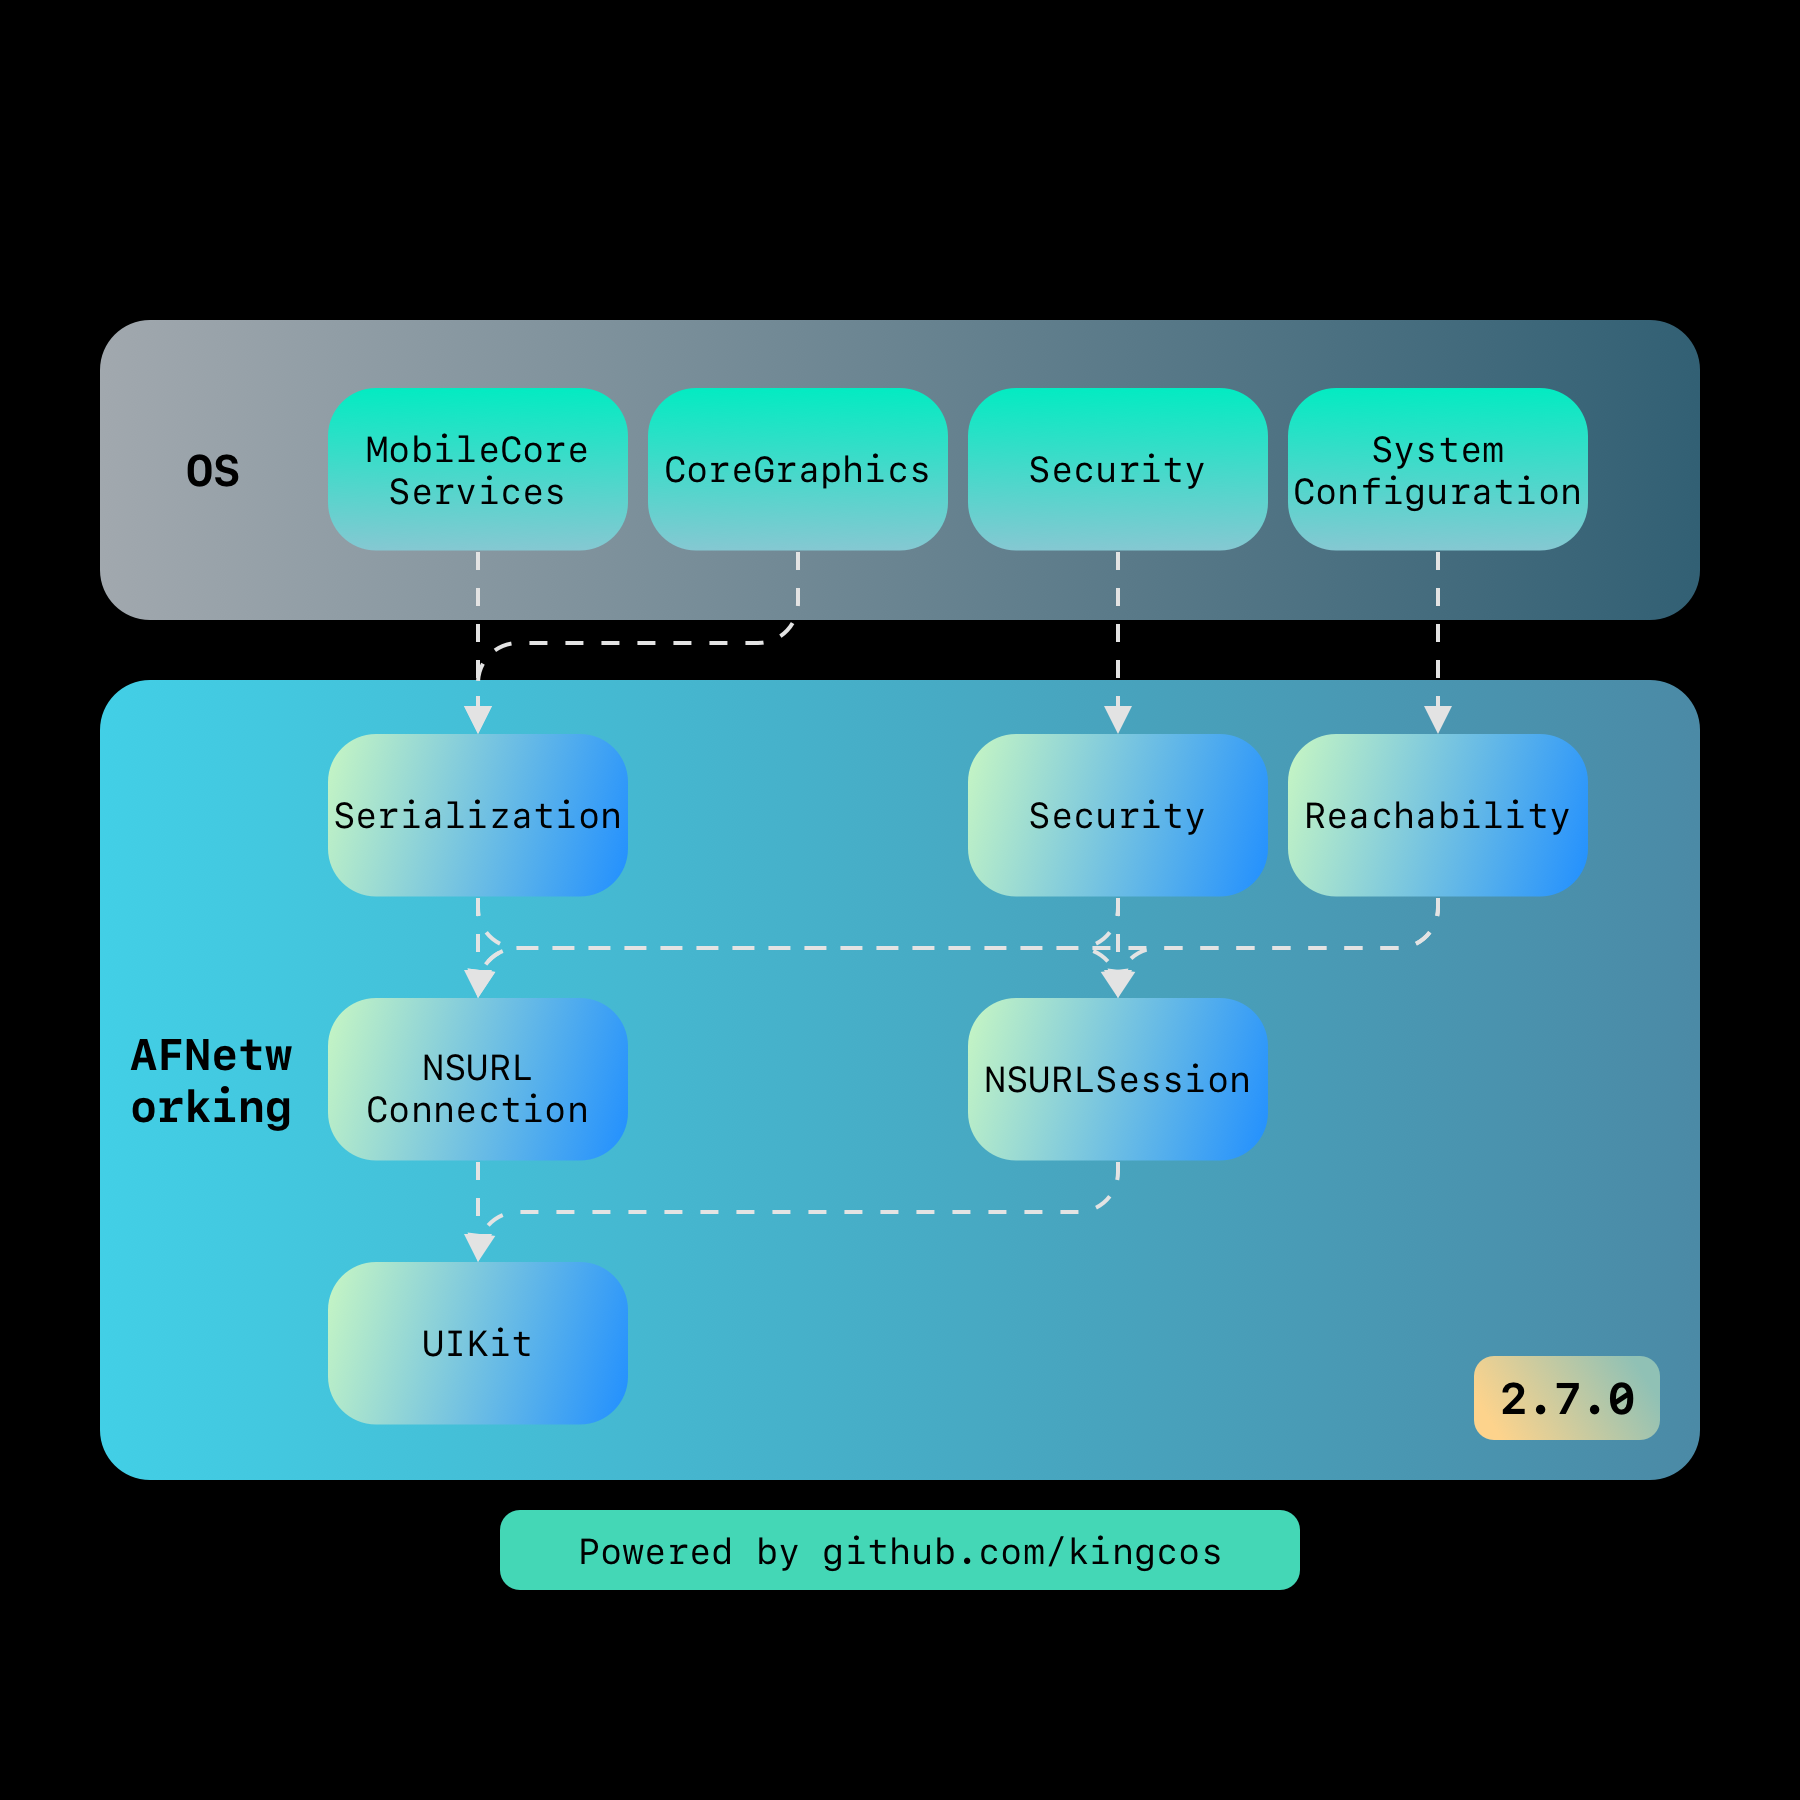
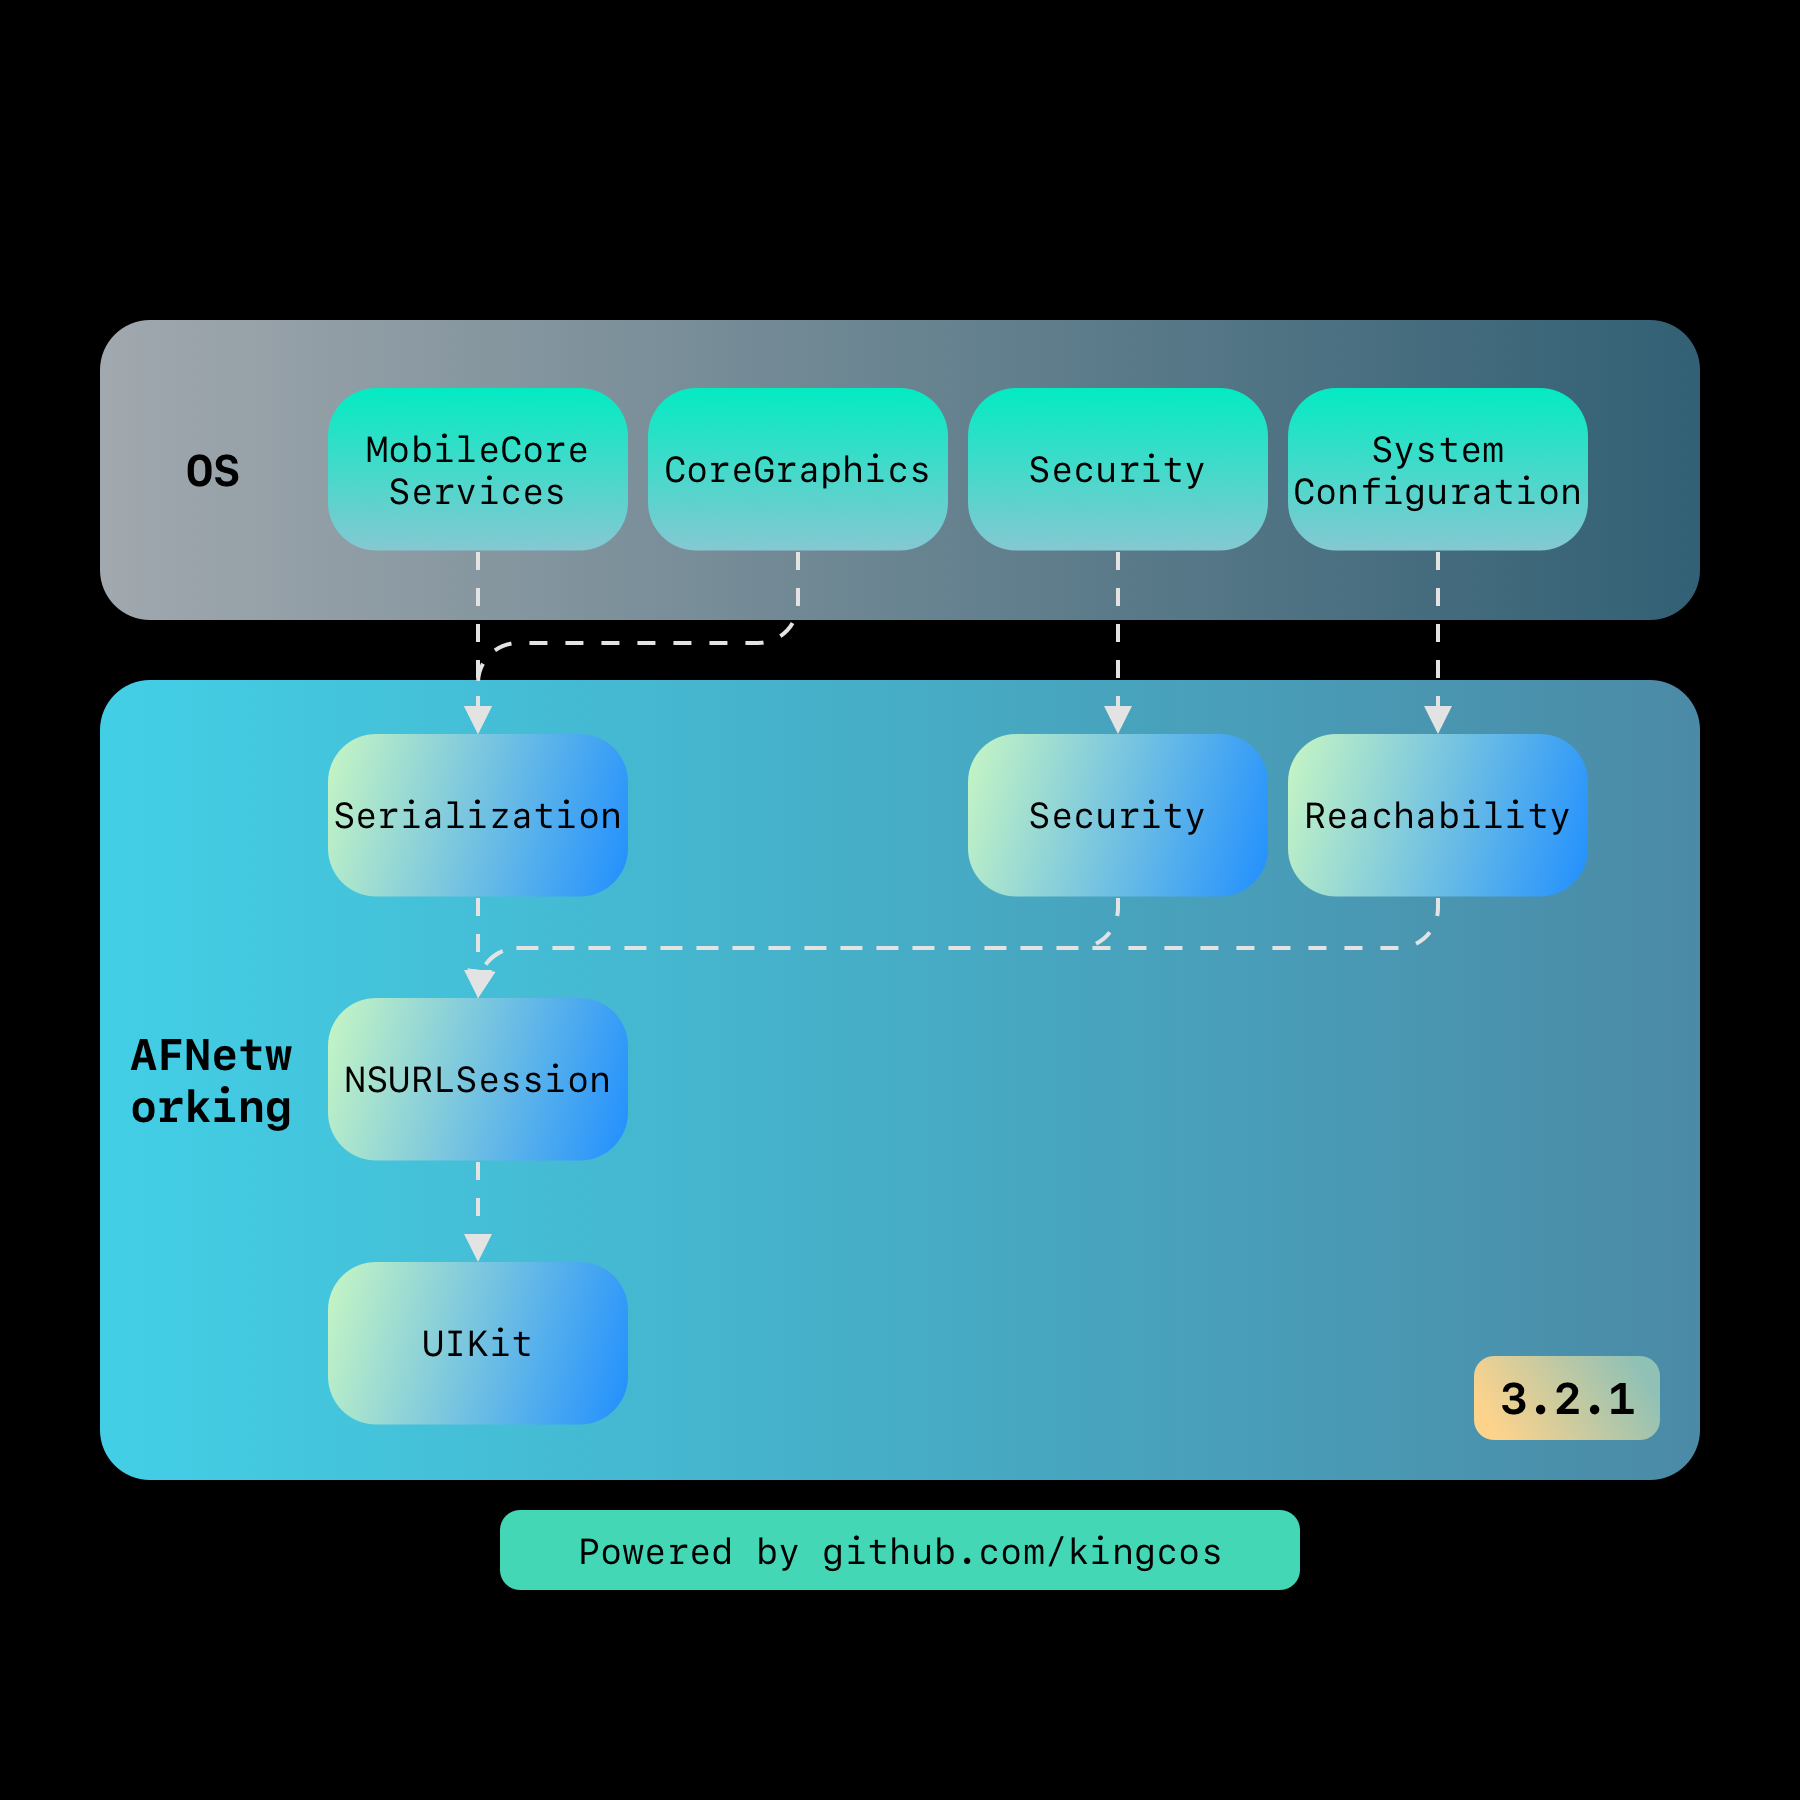
Update to 3.2.1

Changed region(s): [[0.5289, 0.5289, 0.7156, 0.6533], [0.1867, 0.5911, 0.3422, 0.6222]]

diff --git a/Posts/Focus/AFNetworking/README.md b/Posts/Focus/AFNetworking/README.md
@@ -2,23 +2,20 @@
 
 | Date | Notes | Source Code |
 |:-----:|:-----:|:-----:|
-| 2019-03-03 | 首次提交 | [AFNetworking 2.7.0](https://github.com/AFNetworking/AFNetworking/releases/tag/2.7.0) |
+| 2019-03-03 | 首次提交 | [AFNetworking 3.2.1](https://github.com/AFNetworking/AFNetworking/releases/tag/3.2.1) |
 
-> 许久未更！这次我将以 AFNetworking 最新 Release 版本 2.7.0 为例，作为深度剖析的第一个开源库。之后我也将阅读 3.2.1 版本，尝试去对比更新的地方。当然我也计划后续剖析 Alamofire，即 Swift 的网络库。第一次做剖析开源库的文章，不免会有所纰漏，但我会尽力将文章做到翔实。涉及到部分语法特性，可能会将其作为单独的内容提炼出去。其实网上已经有不少对 AFNetworking 剖析的文章，在本文基本完成后，我会参考前人之所见，查漏补缺。所有参考的资料都将在文末「Reference」中找到。那下面就开始吧！
+> 许久未更！这次我将以 AFNetworking 最新 Release 版本 3.2.1 为例，作为深度剖析的第一个开源库。当然我也计划后续剖析 Alamofire，即 Swift 的网络库。第一次做剖析开源库的文章，不免会有所纰漏，但我会尽力将文章做到翔实。涉及到部分语法特性，可能会将其作为单独的内容提炼出去。其实网上已经有不少对 AFNetworking 剖析的文章，在本文基本完成后，我会参考前人之所见，查漏补缺。所有参考的资料都将在文末「Reference」中找到。那下面就开始吧！
 
 ![](afnetworking-logo.png)
 
 ## 总体概览
 
-但凡接触过 iOS 开发，用过 Obj-C 的同学应该对 AFNetworking 这个名字不陌生。AFNetworking 是由 Objective-C 编写的适用于 iOS/macOS/watchOS/tvOS 全平台的网络库。根据开源在 GitHub 上最新的 2.x 版本 Tag，下载到的源代码压缩包解压后共计 146 个文件，查看 Podspec 文件我们可以得知其中 AFNetworking 文件夹下的文件才真正属于库的源代码本身，总共只有 19 个文件。文件结构如下：
+但凡接触过 Obj-C iOS 开发的老同学都应该对 AFNetworking 这个名字不陌生。AFNetworking 是由 Objective-C 编写的适用于 iOS/macOS/watchOS/tvOS 全平台的网络库。根据其开源在 GitHub 上最新的 3.2.1 版本 Tag，可以直接下载到该版本的源代码。AFNetworking 支持 CocoaPods 集成，所以只需要查看 Podspec 文件就可以得知真正的库文件，总共只有 14 个文件。文件结构如下：
 
 ```
 ➜  AFNetworking tree
 .
-├── AFHTTPRequestOperation.h
-├── AFHTTPRequestOperation.m
-├── AFHTTPRequestOperationManager.h
-├── AFHTTPRequestOperationManager.m
+├── AFCompatibilityMacros.h
 ├── AFHTTPSessionManager.h
 ├── AFHTTPSessionManager.m
 ├── AFNetworkReachabilityManager.h
@@ -26,8 +23,6 @@
 ├── AFNetworking.h
 ├── AFSecurityPolicy.h
 ├── AFSecurityPolicy.m
-├── AFURLConnectionOperation.h
-├── AFURLConnectionOperation.m
 ├── AFURLRequestSerialization.h
 ├── AFURLRequestSerialization.m
 ├── AFURLResponseSerialization.h
@@ -35,24 +30,19 @@
 ├── AFURLSessionManager.h
 └── AFURLSessionManager.m
 
-0 directories, 19 files
+0 directories, 14 files
 ```
 
-因为 AFNetworking 通常使用 CocoaPods 集成进我们的 Project。所以根据 Podspec 可以较为容易地了解整体的架构和分层，根据其中的定义，AFNetworking 整体被分为 Serialization、Security、Reachability、NSURLConnection、NSURLSession、UIKit 六个层级（Subspec），AFNetworking 本身只有 AFNetworking.h 一个源文件，作为对外暴露头文件的管理。
+Podspec 不仅指定了源文件的路径，也可以较为容易地了解整体的架构和分层，根据其中的定义，AFNetworking 整体被分为 Serialization、Security、Reachability、NSURLSession、UIKit 五个子层级（Subspec），AFNetworking 本身只有 AFNetworking.h 一个源文件，作为对外暴露头文件的统一管理。
 
 ```ruby
   # AFNetworking.podspec
   # 注：此处仅作部分摘录
 
-  s.public_header_files = 'AFNetworking/AFNetworking.h'
-  s.source_files = 'AFNetworking/AFNetworking.h'
-
   s.subspec 'Serialization' do |ss|
     ss.source_files = 'AFNetworking/AFURL{Request,Response}Serialization.{h,m}'
     ss.public_header_files = 'AFNetworking/AFURL{Request,Response}Serialization.h'
-    ss.watchos.frameworks = 'MobileCoreServices', 'CoreGraphics'
     ss.ios.frameworks = 'MobileCoreServices', 'CoreGraphics'
-    ss.osx.frameworks = 'CoreServices'
   end
 
   s.subspec 'Security' do |ss|
@@ -62,44 +52,22 @@
   end
 
   s.subspec 'Reachability' do |ss|
-    ss.ios.deployment_target = '7.0'
-    ss.osx.deployment_target = '10.9'
-
     ss.source_files = 'AFNetworking/AFNetworkReachabilityManager.{h,m}'
     ss.public_header_files = 'AFNetworking/AFNetworkReachabilityManager.h'
 
     ss.frameworks = 'SystemConfiguration'
   end
 
-  s.subspec 'NSURLConnection' do |ss|
-    ss.ios.deployment_target = '7.0'
-    ss.osx.deployment_target = '10.9'
-
-    ss.dependency 'AFNetworking/Serialization'
-    ss.dependency 'AFNetworking/Reachability'
-    ss.dependency 'AFNetworking/Security'
-
-    ss.source_files = 'AFNetworking/AFURLConnectionOperation.{h,m}', 'AFNetworking/AFHTTPRequestOperation.{h,m}', 'AFNetworking/AFHTTPRequestOperationManager.{h,m}'
-    ss.public_header_files = 'AFNetworking/AFURLConnectionOperation.h', 'AFNetworking/AFHTTPRequestOperation.h', 'AFNetworking/AFHTTPRequestOperationManager.h'
-  end
-
   s.subspec 'NSURLSession' do |ss|
-    ss.ios.deployment_target = '7.0'
-    ss.osx.deployment_target = '10.9'
-    ss.watchos.deployment_target = '2.0'
-    
     ss.dependency 'AFNetworking/Serialization'
     ss.ios.dependency 'AFNetworking/Reachability'
-    ss.osx.dependency 'AFNetworking/Reachability'
     ss.dependency 'AFNetworking/Security'
 
-    ss.source_files = 'AFNetworking/AF{URL,HTTP}SessionManager.{h,m}'
-    ss.public_header_files = 'AFNetworking/AF{URL,HTTP}SessionManager.h'
+    ss.source_files = 'AFNetworking/AF{URL,HTTP}SessionManager.{h,m}', 'AFNetworking/AFCompatibilityMacros.h'
+    ss.public_header_files = 'AFNetworking/AF{URL,HTTP}SessionManager.h', 'AFNetworking/AFCompatibilityMacros.h'
   end
 
   s.subspec 'UIKit' do |ss|
-    ss.platform = :ios
-    ss.dependency 'AFNetworking/NSURLConnection'
     ss.dependency 'AFNetworking/NSURLSession'
 
     ss.public_header_files = 'UIKit+AFNetworking/*.h'
@@ -107,22 +75,23 @@
   end
 ```
 
-所以，对于 iOS 平台（注：下文后如不特别注明，即以 iOS 平台为主，其他平台视情况针对性说明），AFNetworking 2.7.0 的大概层级关系如下图所示：
+所以，对于 iOS 平台（注：下文后如不特别注明，即以 iOS 平台为主，其他平台视情况针对性说明），AFNetworking 3.2.1 的大概层级关系如下图所示：
 
 ![](1.png)
 
-
-需要注意的是，其中 UIKit 主要是针对系统 UIKit 中部分 UI 控件以分类（Category）形式提供支持，不涉及 AFNetworking 核心功能，官方也没有将其直接放在 AFNetworking 文件夹下，而是放在了 UIKit+AFNetworking 文件夹下，共有 18 个文件。这一部分将不作为核心，视情况进行剖析。
+需要注意的是，其中 UIKit 层主要是针对系统 UIKit 中部分 UI 控件以分类（Category）形式提供支持，不涉及 AFNetworking 核心功能，官方也没有将其直接放在 AFNetworking 文件夹下，而是放在了 UIKit+AFNetworking 文件夹下，共有 18 个文件。
 
 ```
 ➜  UIKit+AFNetworking tree
 .
+├── AFAutoPurgingImageCache.h
+├── AFAutoPurgingImageCache.m
+├── AFImageDownloader.h
+├── AFImageDownloader.m
 ├── AFNetworkActivityIndicatorManager.h
 ├── AFNetworkActivityIndicatorManager.m
 ├── UIActivityIndicatorView+AFNetworking.h
 ├── UIActivityIndicatorView+AFNetworking.m
-├── UIAlertView+AFNetworking.h
-├── UIAlertView+AFNetworking.m
 ├── UIButton+AFNetworking.h
 ├── UIButton+AFNetworking.m
 ├── UIImage+AFNetworking.h
@@ -136,12 +105,10 @@
 ├── UIWebView+AFNetworking.h
 └── UIWebView+AFNetworking.m
 
-0 directories, 18 files
+0 directories, 20 files
 ```
 
-NSURLConnection 和 NSURLSession 的 Subspec 即为对于不同的系统网络 API 的封装，是 AFNetworking 的核心所在。由于 AFNetworking「历史」悠久，，在 iOS 6.0 或 macOS 10.8 及以下版本，官方建议使用 NSURLConnection 中的方法；更新版本则建议使用 NSURLSession 版本（在 3.x 版本，AFNetworking 更是直接移除了 NSURLConnection 部分）。
-
-在上述两者的上层，是 Serialization、Security 以及 Reachability，分别主要作用于序列化、安全以及网络可用性方面；后面两者较为独立，后续将分开剖析；序列化部分将和上述核心部分一起剖析。
+NSURLSession 层即为 AFNetworking 的核心所在。在上述两者的上层，是 Serialization、Security 以及 Reachability，分别主要作用于序列化、安全以及网络可用性方面；后面两者较为独立，后续将分开剖析；序列化部分将和 NSURLSession 部分一起剖析。
 
 
 
@@ -160,11 +127,11 @@ NSURLConnection 和 NSURLSession 的 Subspec 即为对于不同的系统网络 A
 
 
 
+## Reachability
 
+## Security
 
-
-
-
+## 3.x
 
 ## Reference
 
